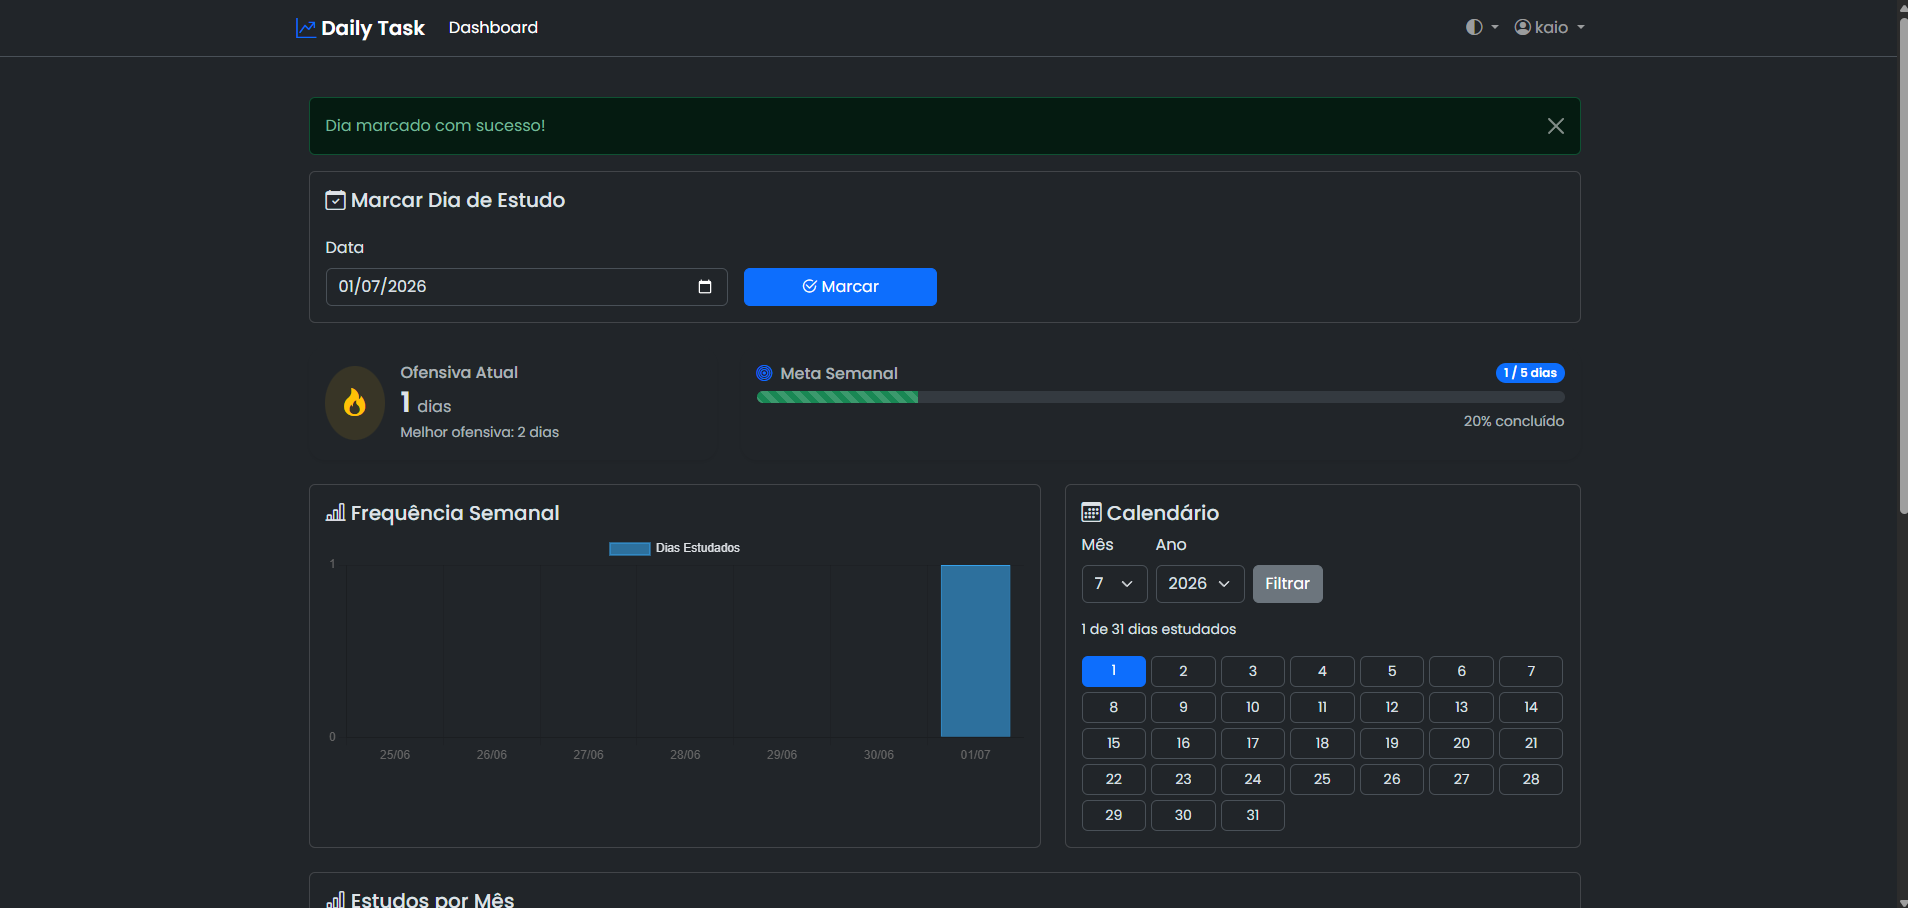
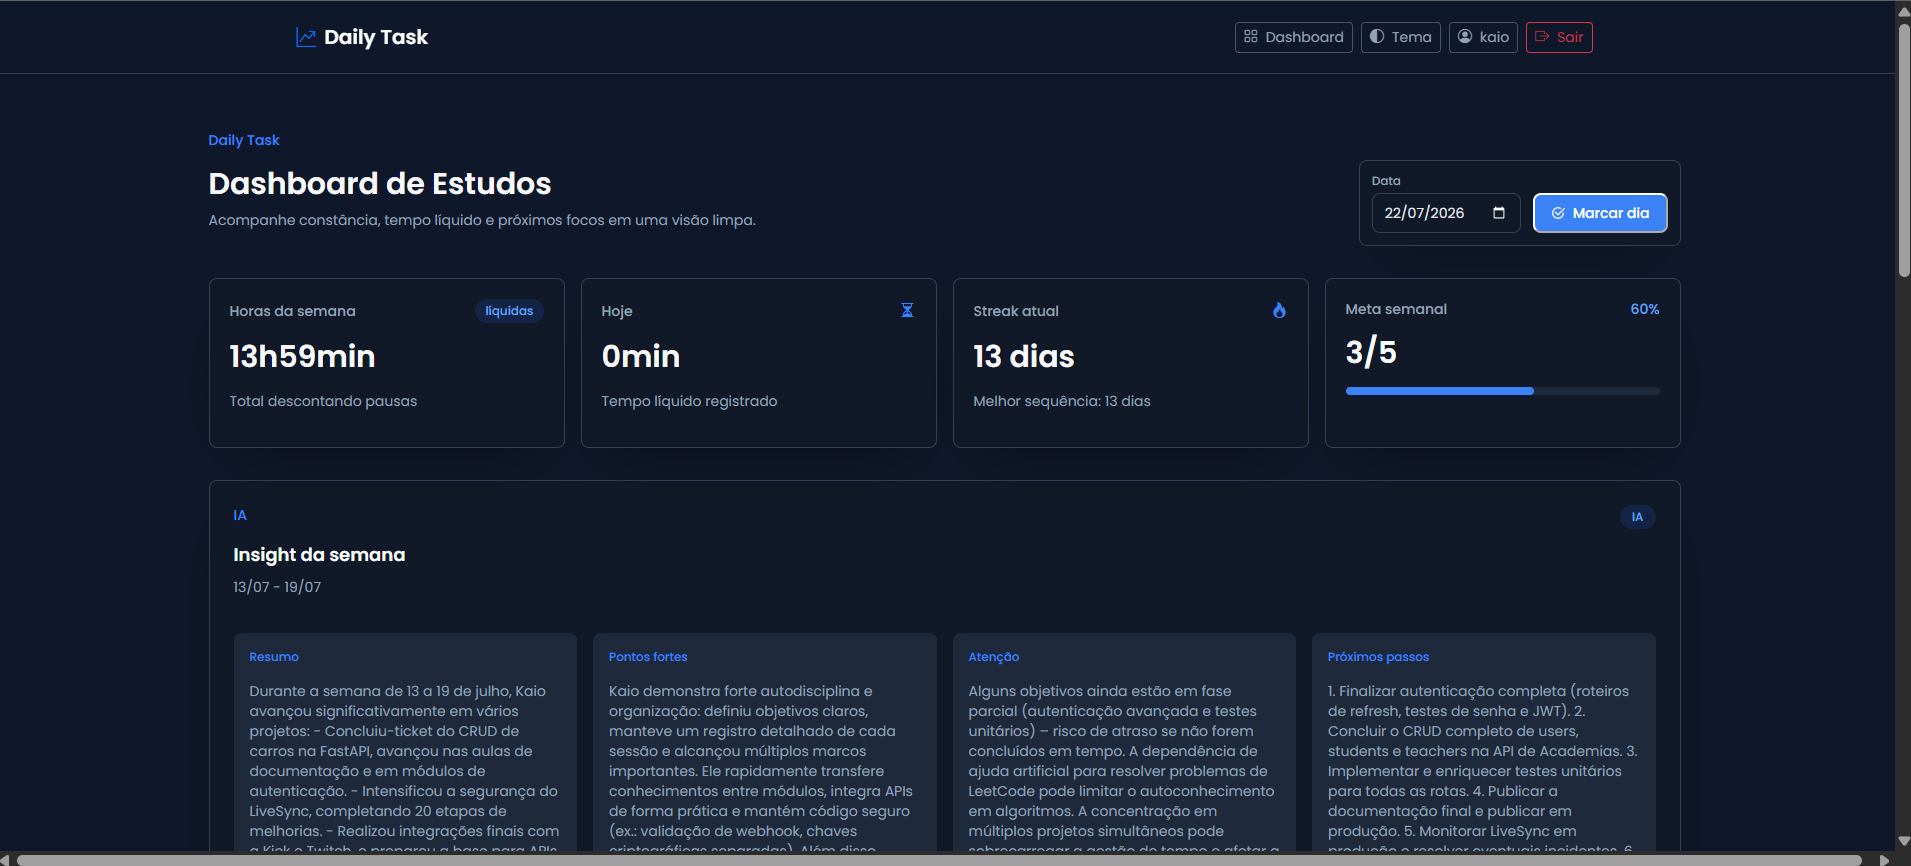
feat: add car api project

diff --git a/index.html b/index.html
@@ -234,9 +234,18 @@
                     <h3 class="project-card__title">Live Sync</h3>
                     <div class="project-card__tags">
                         <span class="tech-badge tech-badge--small">Django</span>
+                        <span class="tech-badge tech-badge--small">Resend (e-mail)</span>
                         <span class="tech-badge tech-badge--small">Celery</span>
                         <span class="tech-badge tech-badge--small">Redis</span>
+                        <span class="tech-badge tech-badge--small">Twitch API</span>
+                        <span class="tech-badge tech-badge--small">Kick API</span>
+                        <span class="tech-badge tech-badge--small">YouTube API</span>
+                        <span class="tech-badge tech-badge--small">TikTok API</span>
+                        <span class="tech-badge tech-badge--small">Mercado Pago API (Pagamentos)</span>
                         <span class="tech-badge tech-badge--small">PostgreSQL</span>
+                        <span class="tech-badge tech-badge--small">Grafana</span>
+                        <span class="tech-badge tech-badge--small">Prometheus</span>
+                        <span class="tech-badge tech-badge--small">Docker</span>
                     </div>
                     <p class="project-card__detail"><strong>Problema:</strong> Duplicidade em faturamento de Pix concorrentes e inconsistência no controle de assinaturas em plataformas de streaming SaaS.</p>
                     <p class="project-card__detail"><strong>Solução:</strong> Arquitetura orientada a eventos com filas assíncronas (Celery/Redis), proteção ACID contra chargebacks via travas concorrentes no banco e conformidade ao Art. 49 do CDC.</p>
@@ -255,6 +264,11 @@
                     <h3 class="project-card__title">Daily Task</h3>
                     <div class="project-card__tags">
                         <span class="tech-badge tech-badge--small">Python</span>
+                        <span class="tech-badge tech-badge--small">Django</span>
+                        <span class="tech-badge tech-badge--small">Resend (e-mail)</span>
+                        <span class="tech-badge tech-badge--small">Celery</span>
+                        <span class="tech-badge tech-badge--small">Redis</span>
+                        <span class="tech-badge tech-badge--small">OpenRouter (IA)</span>
                         <span class="tech-badge tech-badge--small">PostgreSQL</span>
                     </div>
                     <p class="project-card__detail"><strong>Problema:</strong> Desorganização e perda de controle sobre demandas diárias.</p>
@@ -276,11 +290,39 @@
                     <div class="project-card__tags">
                         <span class="tech-badge tech-badge--small">Python</span>
                         <span class="tech-badge tech-badge--small">Django</span>
+                        <span class="tech-badge tech-badge--small">PostgreSQL</span>
+                        <span class="tech-badge tech-badge--small">Docker</span>
                     </div>
                     <p class="project-card__detail"><strong>Problema:</strong> Descentralização de informações de clientes e relatórios.</p>
                     <p class="project-card__detail"><strong>Solução:</strong> Sistema de gestão comercial simplificado que atua como um hub de vendas.</p>
                     <div class="project-card__actions">
                         <a href="https://github.com/KaioHerculano/Sales_Hub" target="_blank" class="button button--small button--outline">Ver Código</a>
+                    </div>
+                </div>
+            </div>
+
+            <div class="project-card">
+                <div class="project-card__image-wrapper">
+                    <img src="images/car_api.png" class="project-card__image" alt="Car API">
+                </div>
+                <div class="project-card__content">
+                    <h3 class="project-card__title">Car API</h3>
+                    <div class="project-card__tags">
+                        <span class="tech-badge tech-badge--small">Python</span>
+                        <span class="tech-badge tech-badge--small">FastAPI</span>
+                        <span class="tech-badge tech-badge--small">Type Hints/Annotations</span>
+                        <span class="tech-badge tech-badge--small">Pydantic</span>
+                        <span class="tech-badge tech-badge--small">SQLAlchemy</span>
+                        <span class="tech-badge tech-badge--small">JWT</span>
+                        <span class="tech-badge tech-badge--small">MkDocs</span>
+                        <span class="tech-badge tech-badge--small">Ruff</span>
+                        <span class="tech-badge tech-badge--small">Taskipy</span>
+                        <span class="tech-badge tech-badge--small">Docker</span>
+                    </div>
+                    <p class="project-card__detail"><strong>Problema:</strong> Dificuldade em padronizar e consultar informações de veículos, marcas e modelos em aplicações.</p>
+                    <p class="project-card__detail"><strong>Solução:</strong> API REST para cadastro, consulta e gerenciamento de dados automotivos, com estrutura limpa, testes e documentação para facilitar integrações.</p>
+                    <div class="project-card__actions">
+                        <a href="https://github.com/KaioHerculano/car_api" target="_blank" class="button button--small button--outline">Ver Código</a>
                     </div>
                 </div>
             </div>